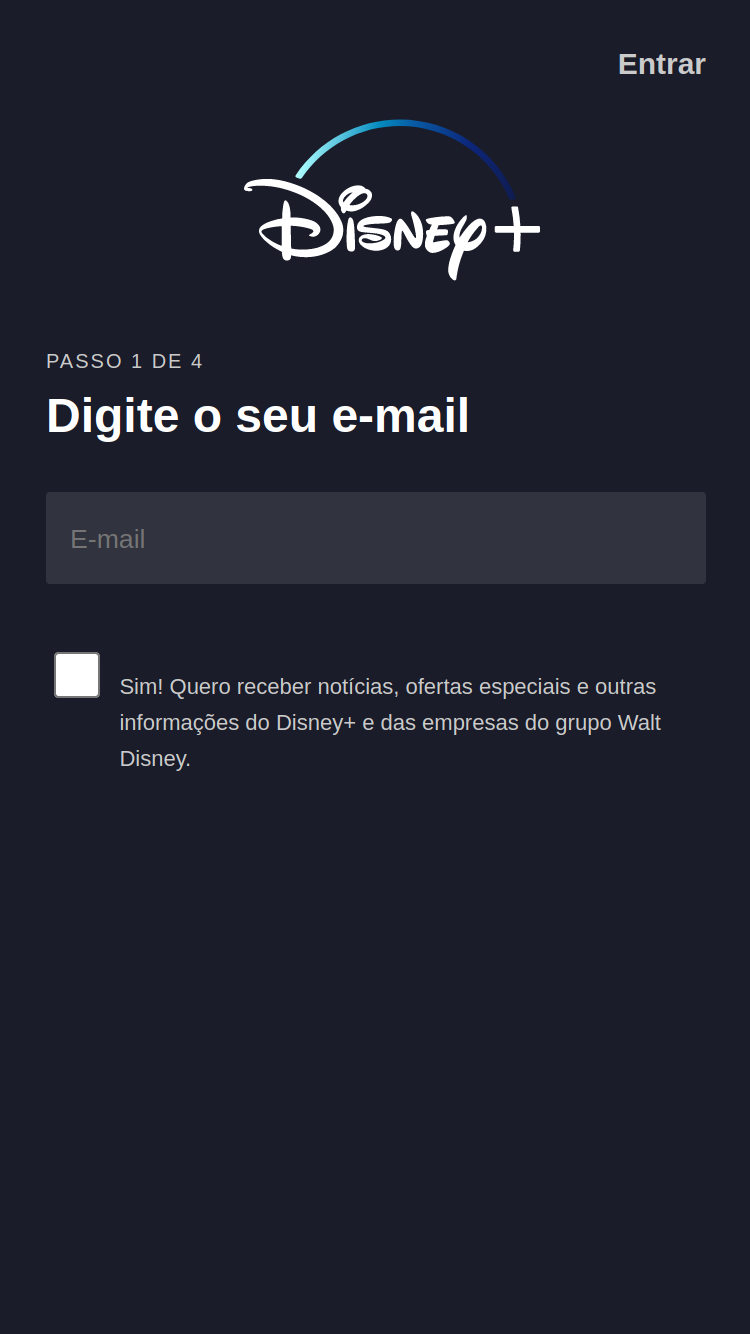
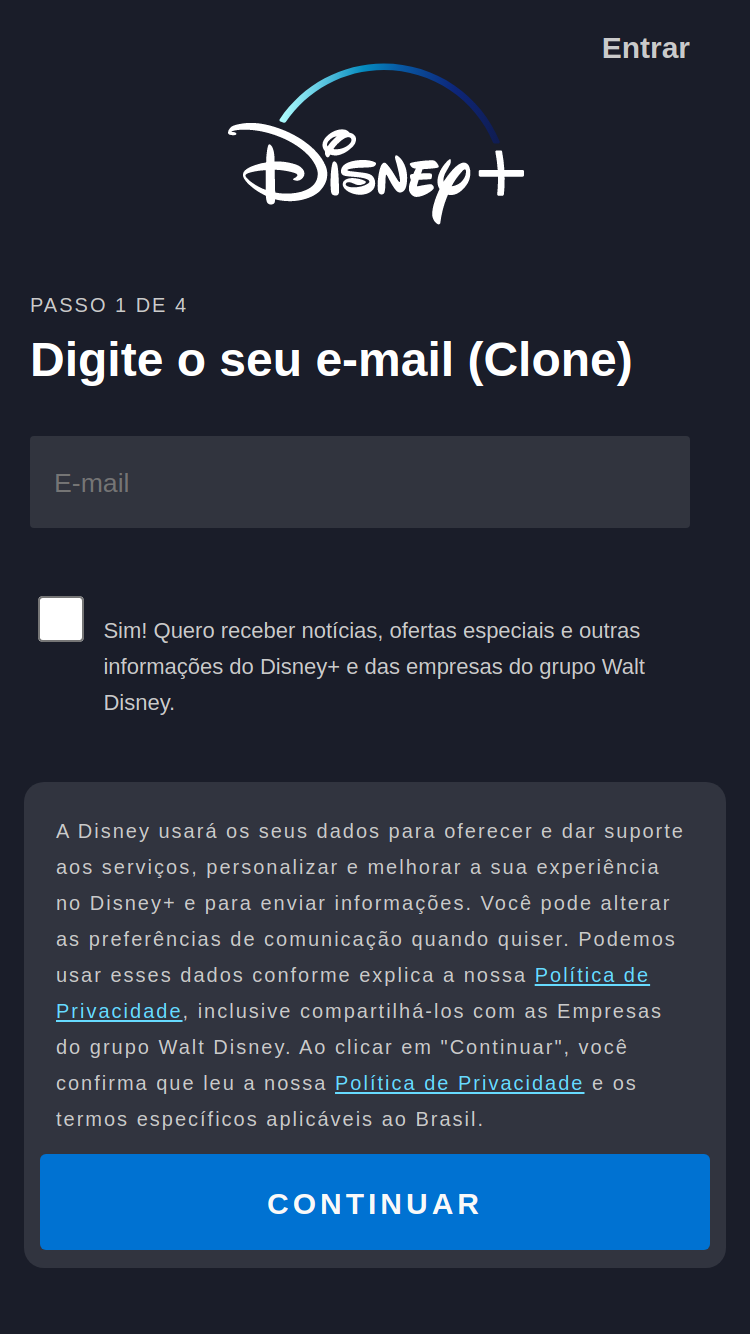
feat: first page done without desktop adjusts

diff --git a/index.html b/index.html
@@ -7,7 +7,9 @@
 	<link rel="stylesheet" type="text/css" href="assets/styles/header.css">
 	<link rel="stylesheet" type="text/css" href="assets/styles/container.css">
 	<link rel="stylesheet" type="text/css" href="assets/styles/main.css">
-	<title>Assinatura</title>
+	<link rel="stylesheet" type="text/css" href="assets/styles/article.css">
+	<link rel="stylesheet" type="text/css" href="assets/styles/footer.css">
+	<title>Assinatura | Disney+</title>
 </head>
 <body>
 	<div id="checkout-container">
@@ -17,7 +19,7 @@
 		</header>
 		<main id="checkout-main">
 			<p>PASSO 1 DE 4</p>
-			<h3>Digite o seu e-mail</h3>
+			<h3>Digite o seu e-mail (Clone)</h3>
 			<input placeholder="E-mail" />
 			<section>
 				<input type="checkbox" />
@@ -27,6 +29,21 @@
 				</p>
 			</section>
 		</main>
+		<article id="checkout-article">
+			<p>A Disney usará os seus dados para oferecer e dar suporte aos
+			serviços, personalizar e melhorar a sua experiência no Disney+ e 
+			para enviar informações. Você pode alterar as preferências de 
+			comunicação quando quiser. Podemos usar esses dados conforme explica a nossa <a href="#">Política de Privacidade</a>,
+			inclusive compartilhá-los com as Empresas do grupo Walt Disney.
+			Ao clicar em "Continuar", você confirma que leu a nossa 
+			<a href="#">Política de Privacidade</a> e os termos específicos
+			aplicáveis ao Brasil.
+			</p>
+			<button>CONTINUAR</button>
+		</article>
+		<footer id="checkout-footer">
+			<img src="assets/images/disney_logo.svg"/>
+		</footer>
 	</div>
 </body>
 </html>

diff --git a/assets/styles/article.css b/assets/styles/article.css
@@ -1,0 +1,33 @@
+#checkout-article {
+	width: 35.1rem;
+	height: 24.3rem;
+	background: #31343f;
+	margin: 0 auto;
+	padding: .8rem;
+	border-radius: 1rem;
+}
+
+#checkout-article > p {
+	color: #CACACA;
+	font-size: 1rem;
+	letter-spacing: .1rem;
+	line-height: 1.8rem;
+	margin: .8rem;
+}
+
+#checkout-article > p > a {
+	color: #67DBFF;
+	text-decoration: underline;
+}
+
+#checkout-article > button {
+	width: 33.5rem;
+	height: 4.8rem;
+	color: #F9F9F9;
+	font-size: 1.5rem;
+	background: #0072d2;
+	padding: 0 2.4rem;
+	font-weight: bold;
+	letter-spacing: .2rem;
+	border-radius: .3rem;
+}

diff --git a/assets/styles/footer.css b/assets/styles/footer.css
@@ -1,0 +1,14 @@
+#checkout-footer {
+	width: 100%;
+	height: 35.4rem;
+	margin-top: 10rem;
+	background: #000000;
+	padding-top: 1.9rem;
+}
+
+#checkout-footer > img {
+	width: 9.4rem;
+	height: 3.8rem;
+	display: block;
+	margin: 0 auto;
+}

diff --git a/assets/styles/main.css b/assets/styles/main.css
@@ -1,8 +1,7 @@
 #checkout-main {
 	color: #CACACA;
-	width: 100vw;
 	padding: 0 1.5rem;
-	width: 50rem;
+	width: 38rem;
 	margin: 2rem auto;
 	display: flex;
 	flex-direction: column;

diff --git a/assets/styles/globalStyle.css b/assets/styles/globalStyle.css
@@ -17,4 +17,6 @@ button {
 body {
 	background: #1a1d29;
 	overflow-x: hidden;
+	margin: 0;
+	border: 0;
 }

diff --git a/assets/styles/header.css b/assets/styles/header.css
@@ -19,4 +19,5 @@
 	height: 9rem;
 	display: block;
 	margin: 0 auto;
+	margin-top: -2rem;
 }
